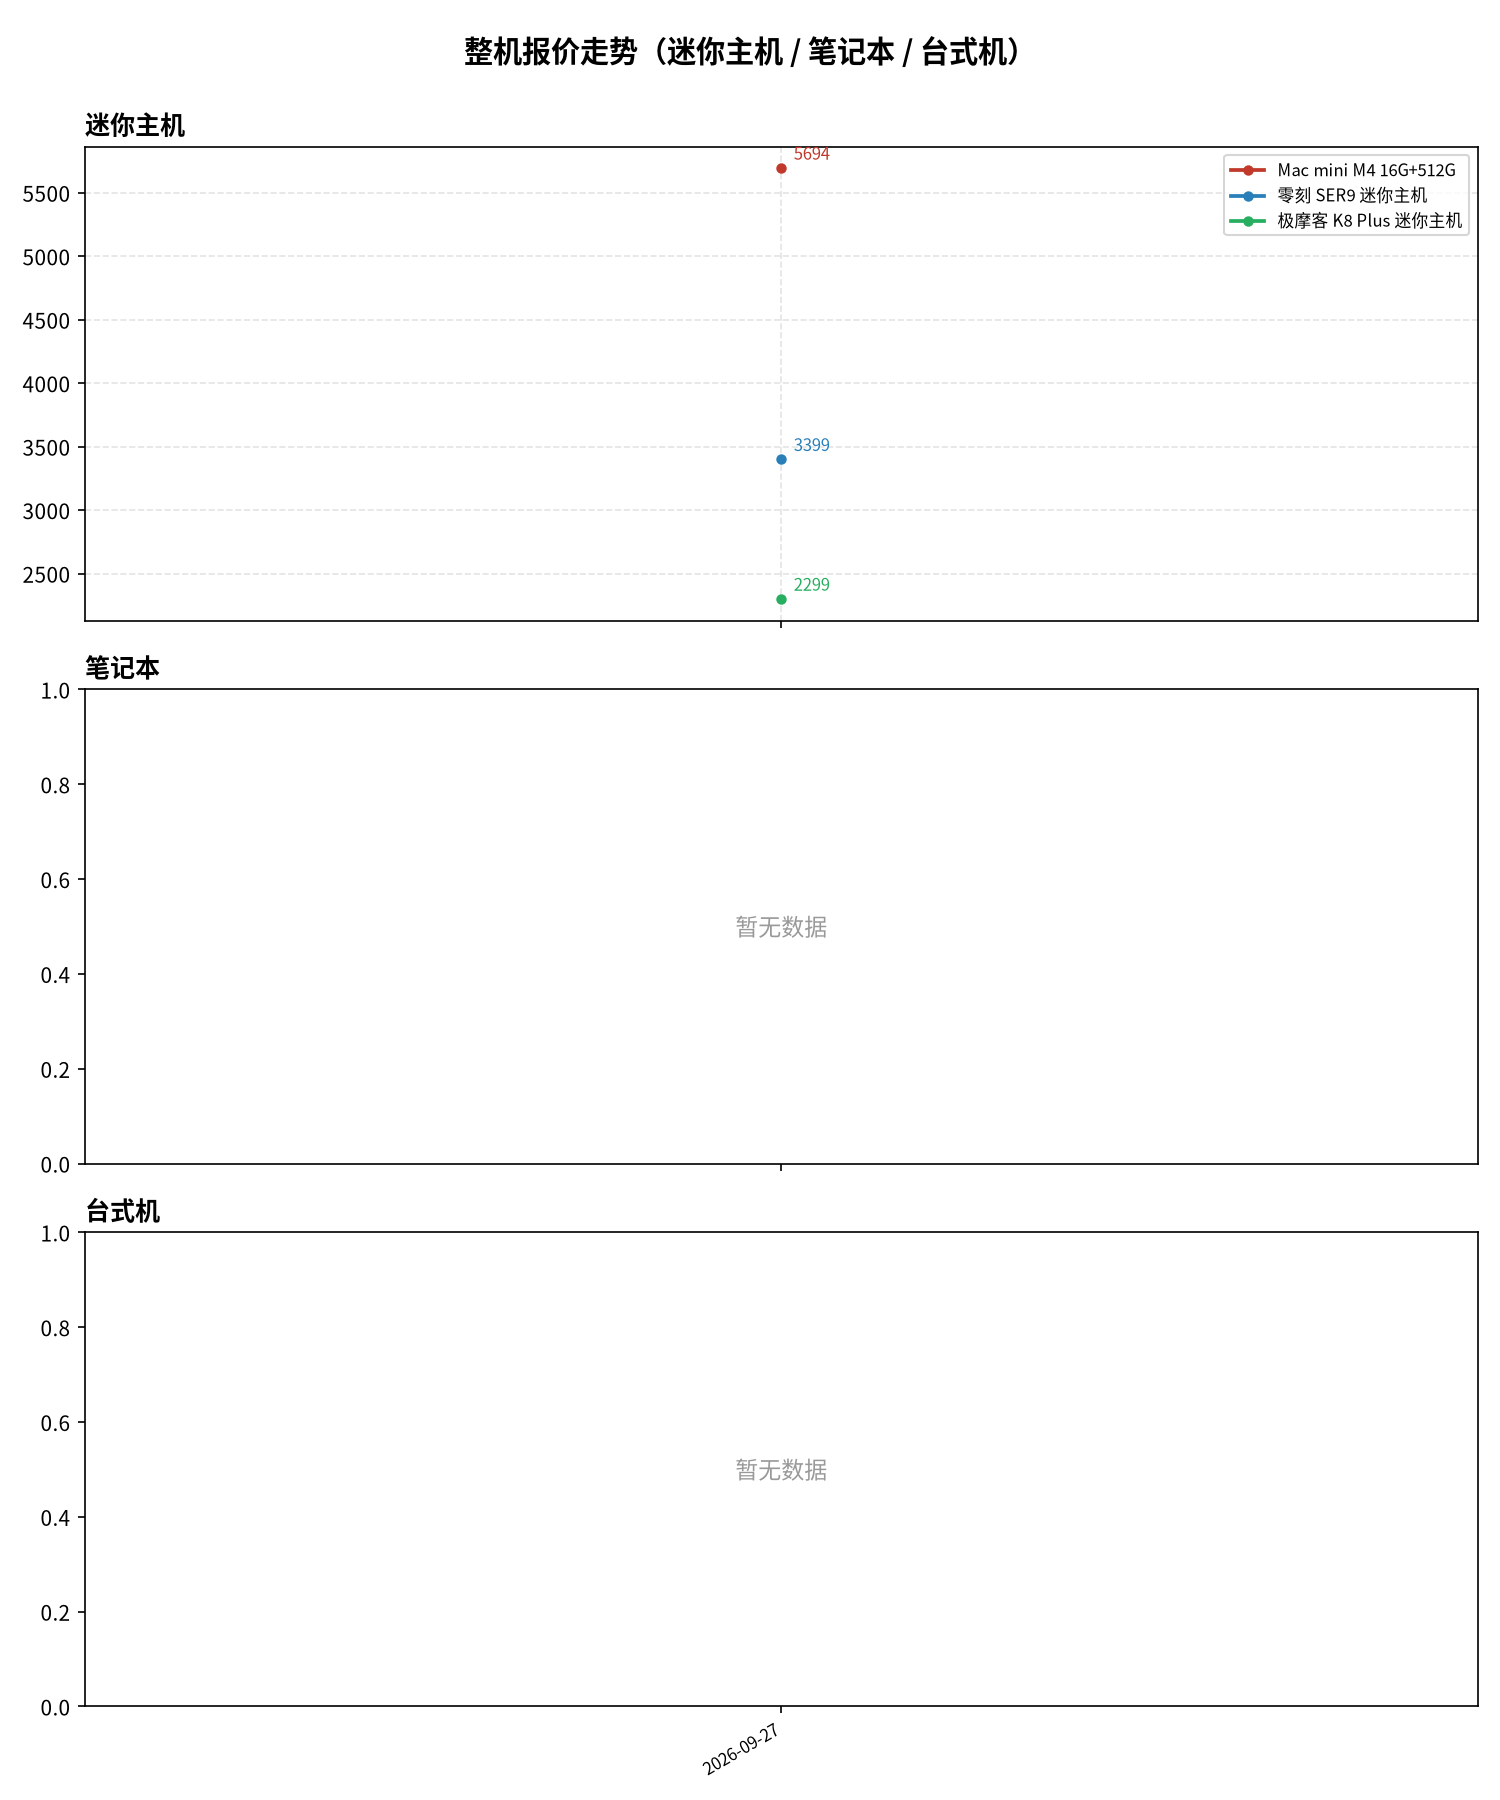
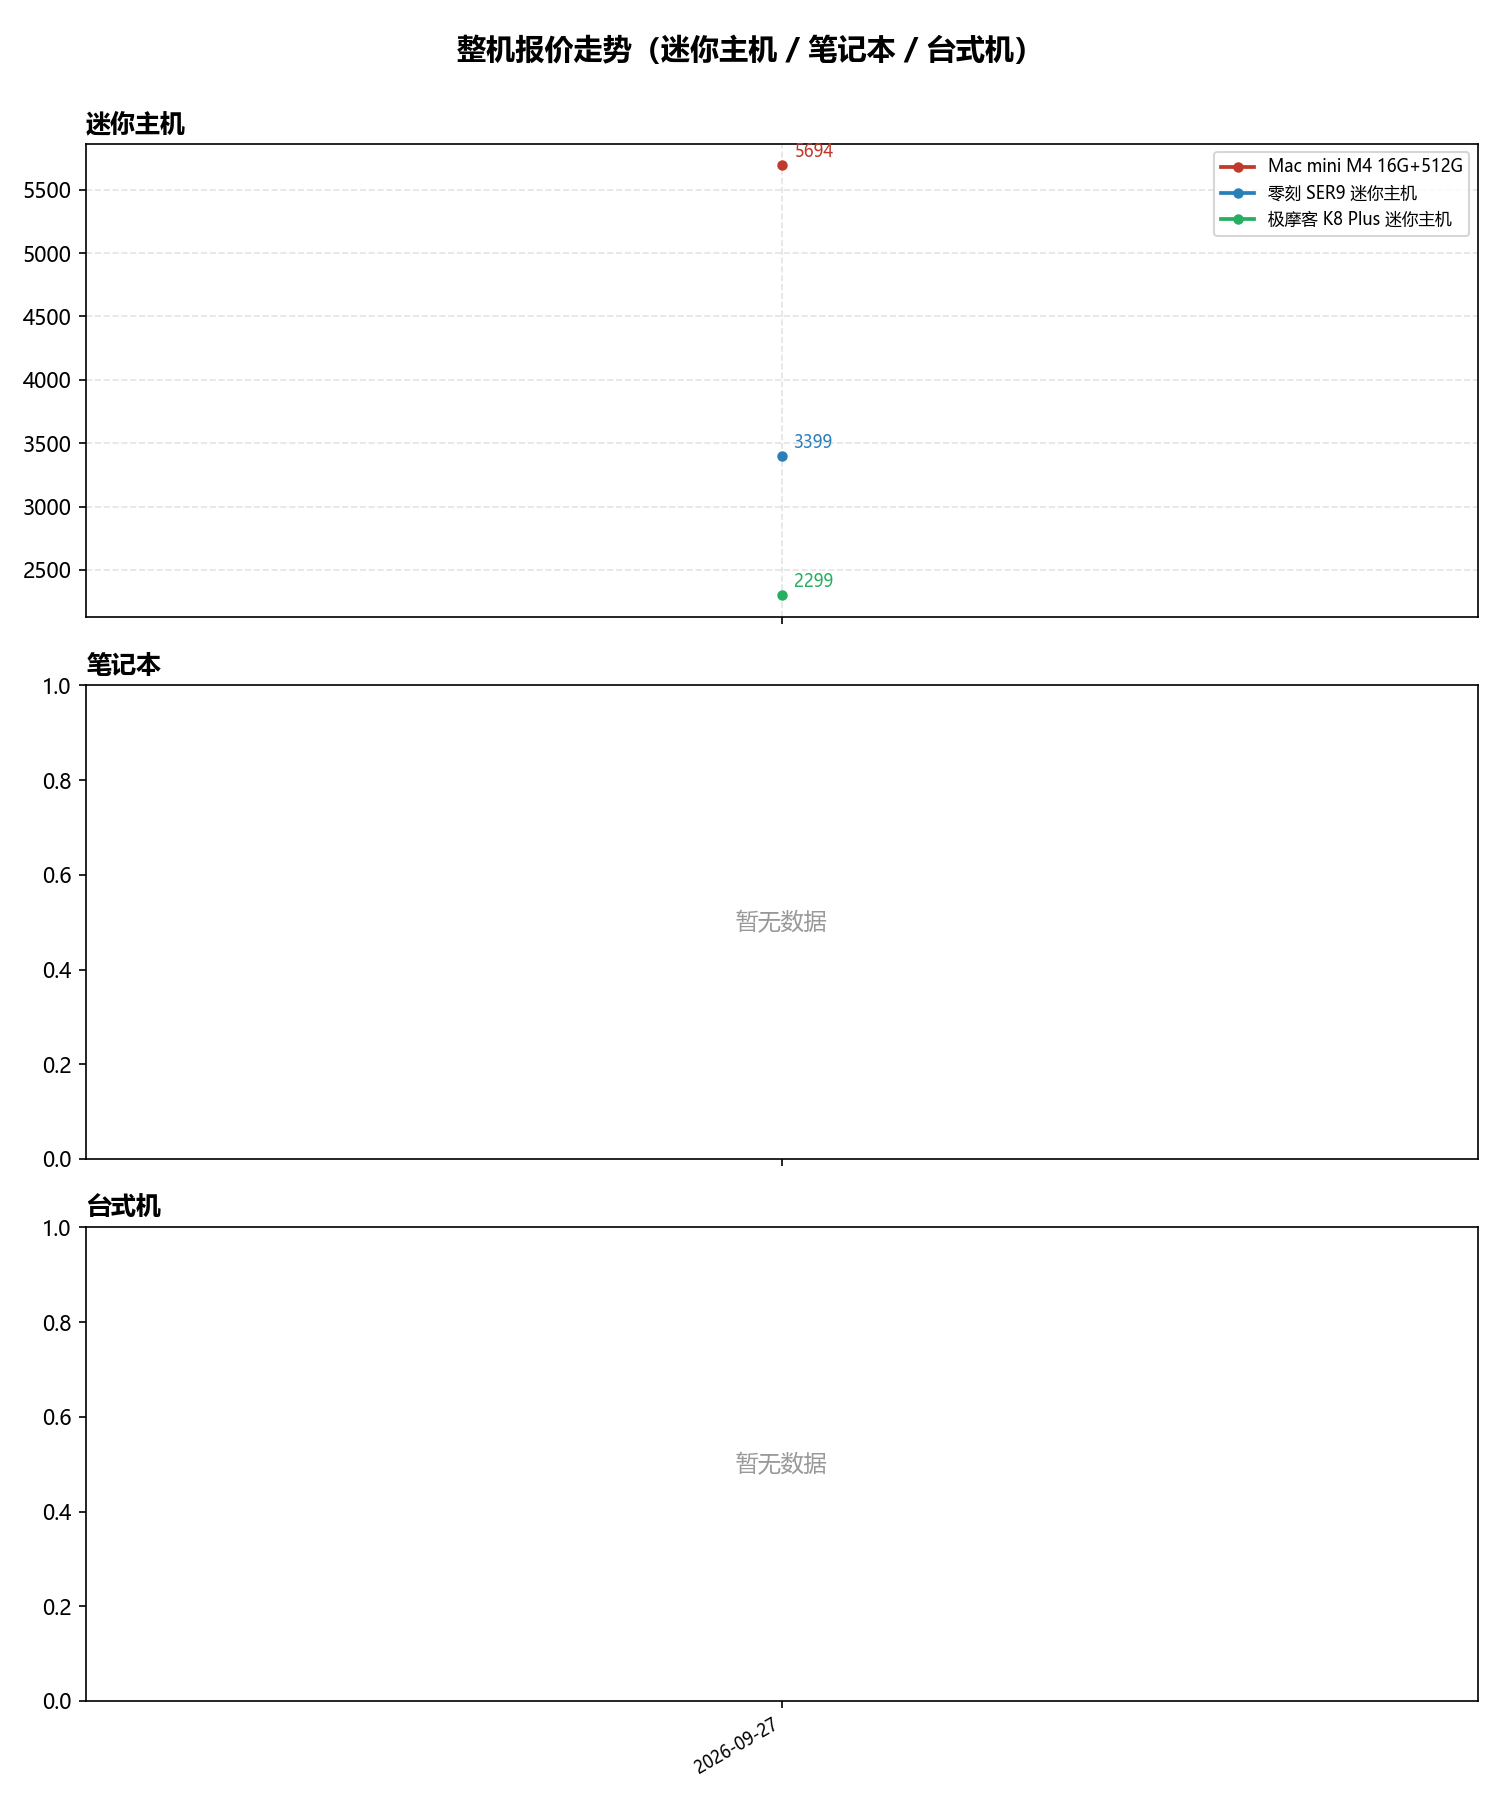
日报更新 2026-09-27

diff --git a/output/reports/hw_report_2026-09-27.html b/output/reports/hw_report_2026-09-27.html
@@ -21,6 +21,6 @@ img{max-width:100%;border:1px solid #ddd;border-radius:6px;margin-top:8px;}
 —— 数据来自京东、淘宝实时搜索，共积累 1 天。</p>
 <div class="note">今日京东未命中的商品：Mac mini M4 16G+512G</div>
 <h2>整机报价走势（迷你主机 / 笔记本 / 台式机）</h2><table><tr><th>商品</th><th>平台</th><th>最新价</th><th>日涨跌</th><th>相对首日</th><th>链接</th></tr><tr><td>Mac mini M4 16G+512G<br><span class="muted">Apple M4 · 迷你主机</span></td><td>京东</td><td>¥5694</td><td><span class="muted">—</span></td><td><span class="muted">—</span></td><td><a href="https://item.jd.com/100391549686.html">看</a></td></tr><tr><td>零刻 SER9 迷你主机<br><span class="muted">AMD 锐龙 · 迷你主机</span></td><td>京东</td><td>¥3399</td><td><span class="muted">—</span></td><td><span class="muted">—</span></td><td><a href="https://item.jd.com/10218448974737.html">看</a></td></tr><tr><td>极摩客 K8 Plus 迷你主机<br><span class="muted">AMD 锐龙 · 迷你主机</span></td><td>京东</td><td>¥2299</td><td><span class="muted">—</span></td><td><span class="muted">—</span></td><td><a href="https://item.jd.com/10117296510123.html">看</a></td></tr></table><img src="cid:chart_machines" alt="整机报价走势（迷你主机 / 笔记本 / 台式机）"><h2>DDR5 内存报价走势</h2><table><tr><th>商品</th><th>平台</th><th>最新价</th><th>日涨跌</th><th>相对首日</th><th>链接</th></tr></table><img src="cid:chart_ddr5" alt="DDR5 内存报价走势"><h2>iQOO Neo 系列手机报价走势</h2><table><tr><th>商品</th><th>平台</th><th>最新价</th><th>日涨跌</th><th>相对首日</th><th>链接</th></tr></table><img src="cid:chart_neo" alt="iQOO Neo 系列手机报价走势">
-<div class="footer">由硬件日报机器人自动生成于 2026-09-27 03:53
+<div class="footer">由硬件日报机器人自动生成于 2026-09-27 11:54
 · GitHub 归档与全部走势图见仓库 README</div>
 </body></html>

diff --git a/README.md b/README.md
@@ -119,6 +119,6 @@ scripts/                 全部脚本
 
 ![iQOO Neo](output/charts/chart_neo.png)
 
-> 更新时间：2026-09-27 11:29（本地任务自动推送）
+> 更新时间：2026-09-27 11:54（本地任务自动推送）
 
 <!-- AUTO:END -->
